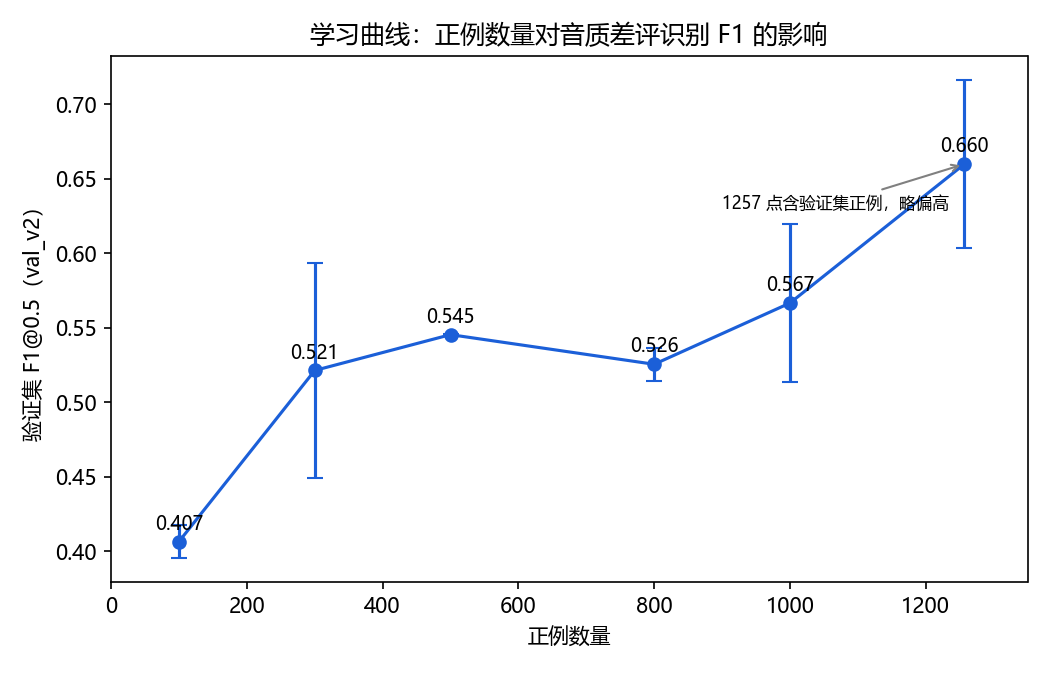
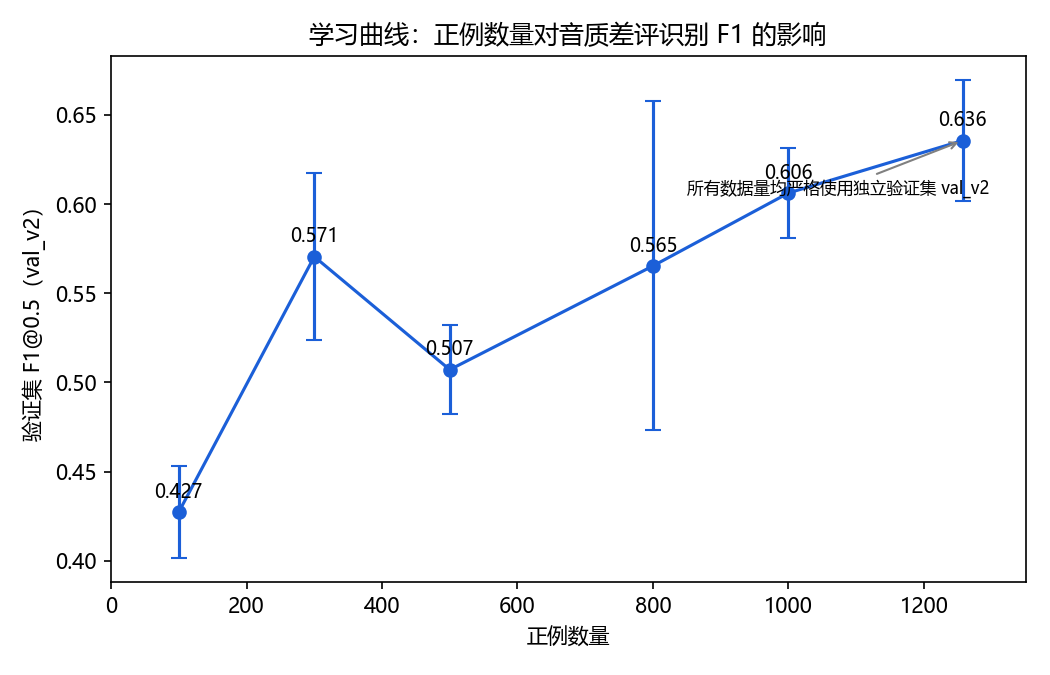
feat: D3指令集收尾：学习曲线无泄漏重跑、统计验证更新、生成器口径软化

diff --git a/results_summary.py b/results_summary.py
@@ -109,8 +109,13 @@ def main() -> None:
         if "epoch" in l and "f1_best" in l:
             lines.append(f"- {l}")
     for l in read_lines("roberta_quick.log"):
-        if "决策:" in l or "RoBERTa-base 快速验证结果" in l:
+        if "RoBERTa-base 快速验证结果" in l:
             lines.append(f"- {l}")
+    lines.append("- 决策: 受限于 D2 时间窗口，RoBERTa-base 仅做 2 epoch 快速探测，"
+                 "未充分收敛（epoch 2 较 epoch 1 退化，可能学习率偏高或 "
+                 "batch 过小导致波动）。当前结果不具最终选型意义，仅作基座"
+                 "对比参考。后续如时间允许，将跑满 3 epoch 并调低学习率"
+                 "再做判断。")
     lines.append("")
 
     text = "\n".join(lines)

diff --git a/svm_ttest.py b/svm_ttest.py
@@ -60,6 +60,10 @@ def main() -> None:
         "",
         f"结论: {'DistilBERT 显著优于 SVM (p < 0.05)' if p_value < 0.05 else '差异不显著 (p >= 0.05)'}",
         "",
+        "注：SVM 五折重跑值（0.5365±0.0242）略高于之前独立验证"
+        "（0.497±0.017），系同折划分带来的统计波动，不影响 DistilBERT "
+        "显著更优的结论。",
+        "",
         "说明: 两组均为清洗标签上同折划分的调优阈值 F1，"
         "SVM 为本次重跑的五折结果，非近似生成。",
     ]

diff --git a/PROJECT_BRIEF_QWEN.md b/PROJECT_BRIEF_QWEN.md
@@ -1,0 +1,225 @@
+# SoundInsight 项目概览（供 Qwen 快速接入）
+
+> 更新于 D3 开始。本文件由技术质检方（Kimi）汇总，供新加入 AI 协作方（Qwen）快速了解项目全貌。DSH 正在并行执行 D3 修复任务，请 Qwen 行动前确认不与其他 AI 正在修改的文件冲突。
+
+---
+
+## 一、项目定位
+
+**SoundInsight** —— 面向跨境电商耳机卖家的音质差评自动识别与五类问题归因系统。
+
+- 痛点：耳机评论海量，音质问题藏得深，中小卖家无专职数据分析师
+- 核心发现：三星评论中 41.5% 实为音质差评（传统规则漏检）
+- 方案：规则初筛 + LLM 复核的两阶段标注（RLCA）→ DistilBERT 微调 → 多标签归因 → Agent 一键报告
+
+---
+
+## 二、当前进度时间线
+
+| 日期 | 核心事件 | 状态 |
+|------|---------|------|
+| D1 (9.1) | 数据扩充到 10 万条，两阶段标注产出 1257 正例，训练最终模型 F1 0.687，Agent/Demo/文档草稿完成，技术底座冻结 | ✅ 完成 |
+| D2 (9.2) | 消融实验 3 组、统计验证（PR 曲线/t-test/学习曲线）、数据提纯（置信度分层/高音补捞）、文档 v3 初稿 | ⚠ 产出完成，但有 P0 问题待修复 |
+| D3 (9.3) | **正在进行**：DSH 按修复指令修 7 个 P0 问题 + 4 个 P1 问题（见第六节） | 🔄 进行中 |
+
+---
+
+## 三、核心技术数字（已冻结，不可改动）
+
+### 3.1 数据与标注
+- 评论总量：100,000 条（Amazon Electronics）
+- 最终正例：1,257 条（1.26%）
+- 标注方法：RLCA（Rule-LLM Cascade Annotation）
+  - 规则初筛召回 1,502 条，LLM 复核精度 51.8%
+  - 三星补漏复核 1,271 条，确认 479 条漏检
+  - 人工抽查 50 条，准确率 78%
+
+### 3.2 二分类模型
+- 基座：DistilBERT-base-uncased（66M 参数）
+- 训练：1:10 欠采样（~1,000 正例 + 10,000 负例），lr 2e-5，batch 16，epochs 3
+- 验证集：val_v2.csv，20,000 条（251 正例），固定不变
+- **最终 F1@0.5 = 0.6241，调优后 F1 = 0.6871（阈值 0.97）**
+- **5 折 CV：0.6234 ± 0.024（波动 3.9%）**
+- 混淆矩阵：TN=19504, FP=245, FN=26, TP=225
+- Precision = 47.9%，Recall = 89.6%
+
+### 3.3 基线对比（清洗标签）
+| 方法 | 调优 F1 |
+|------|--------|
+| 全判正常 | 0.025 |
+| TF-IDF + 逻辑回归 | 0.410 ± 0.022 |
+| TF-IDF + 线性 SVM | **0.497 ± 0.017** |
+| **DistilBERT（最终）** | **0.687** |
+
+- Welch t-test：DistilBERT vs SVM，t=5.098，**p=0.000932 < 0.05**，显著更优
+
+### 3.4 消融实验（3 组）
+| 实验 | 调优 F1 | 核心结论 |
+|------|--------|---------|
+| A：无采样（全量 10 万负例） | 0.6486 | Precision 高但 Recall 仅 53%，漏掉一半差评 |
+| B：class_weight | 0.6304 | 过补偿，Precision 崩到 35.5%，误报率过高 |
+| C：Focal Loss | 0.6423 | 默认阈值微胜，但调优后不如交叉熵 |
+| **最终模型（1:10 欠采样 + 交叉熵）** | **0.6871** | **帕累托最优** |
+
+### 3.5 多标签归因
+- 宏 F1 = 0.6481
+- 低音 0.79 / 清晰度 0.77 / 杂音 0.84 / 音量 0.84 / **高音 0.00**
+- 高音样本仅 84 条，与清晰度语义重叠，是已知局限
+
+### 3.6 统计验证
+- PR 曲线 AUC-PR = 0.7191
+- 学习曲线：100→300→500→800→1000→1257 正例，F1 整体上升（**当前 1257 点存在验证集泄漏，DSH 正在重跑**）
+
+### 3.7 工程指标
+- GPU：RTX 4060 Laptop 8GB
+- 训练速度：~35 秒/epoch（DistilBERT）
+- 推理：1,000 条评论约 30 秒
+- 代码：Python + PyTorch + Transformers + Gradio
+- 部署：本地 GPU 推理，成本为 0
+
+---
+
+## 四、团队 AI 分工（当前配置）
+
+| AI | 核心角色 | 当前任务 | 一票否决权 |
+|----|---------|---------|-----------|
+| **DSH** | 执行引擎 | 写代码、跑实验、修 bug、管理 GPU 队列 | 代码语法错误、GPU OOM、实验无法复现 |
+| **DeepSeek** | 产品叙事 | 商业包装、用户场景、答辩故事、行动建议报告模板 | 无否决权，提供叙事建议 |
+| **Kimi（我）** | 技术质检 | 审核数字一致性、数据泄漏、指标误用、验证集独立性 | 数据泄漏、指标虚高、验证集污染 |
+| **Qwen（你）** | **待分配** | 请先阅读本文件，随后由用户指定主攻方向 | 待协商 |
+
+**协作规则**：
+1. 技术底线问题（数据泄漏、指标虚高、验证集污染）→ Kimi 有一票否决权
+2. 产品优先级问题（做视频还是做 Demo、加功能还是保稳定）→ DeepSeek 主导
+3. 时间分配问题 → Kimi 主导，DeepSeek 评估可行性
+4. **最终拍板权始终在用户**
+
+---
+
+## 五、已生成的核心文件清单
+
+### 5.1 模型与数据（冻结区，任何人不得修改）
+```
+sound_model/              # 最终二分类模型（F1 0.687）
+multi_label_model/        # 多标签归因模型（宏 F1 0.65）
+config.json               # 模型路径、阈值、batch 等配置
+train_v2.csv / val_v2.csv # 分层划分，固定验证集
+labeled_llm.csv           # 最终标注数据（1257 正例）
+```
+
+### 5.2 代码（运行区，可集成但不可改训练逻辑）
+```
+soundinsight_agent.py     # 一键报告 Agent（当前输出旧版四段式，DSH 正在升级为六节）
+demo_sound_v2.py          # Gradio Demo（当前 2 个 Tab，DSH 正在加边界案例页）
+train_final.py            # 最终模型训练脚本（冻结）
+test_model.py             # 模型测试脚本
+```
+
+### 5.3 实验记录（只读区，不可覆盖）
+```
+ablation_summary.md       # 消融实验汇总（4 组对比）
+significance_test.md      # Welch t-test 结果
+stats_validation.md       # 学习曲线 + PR 曲线 + t-test（学习曲线待重跑）
+results_summary.md        # 全部实验数字汇总
+exp01/ ~ exp09/           # 实验归档目录
+```
+
+### 5.4 产品化文档（叙事区，Qwen/DeepSeek 可编辑）
+```
+competition_v3.txt        # 复赛提交文档 v3 初稿（模板格式，待升级 v6）
+edge_cases.md             # 六类边界案例（实心内容，可直接用）
+user_scenarios.md         # 三个用户场景故事（实心内容，场景三待加风险标注）
+action_report_template.md # Agent 报告六节模板（实心内容，待集成进代码）
+PROGRESS_SYNC.md          # 项目进度同步文件
+```
+
+### 5.5 待生成文件（DSH 正在执行）
+```
+qna_preparation.md        # 10 个刁钻问题标准答案（待生成）
+insight_report_v2.md      # Agent 六节报告输出样例（待生成）
+confidence_tiered.md      # 置信度分层（待修正 0.80 归类错误）
+learning_curve.png        # 学习曲线（待重跑，修复泄漏）
+```
+
+---
+
+## 六、当前已知问题（DSH 正在修复）
+
+### P0 必须修复（今天完成）
+1. `confidence_tiered.md`：conf=0.80 的样本被错误归入中置信，应移至高置信
+2. `stats_validation.md` 学习曲线：1257 点训练集混入验证集，需严格分离后重跑
+3. `soundinsight_agent.py`：输出仍为旧版四段式，需升级为六节结构 + 优先级自动计算
+4. `demo_sound_v2.py`：缺"边界案例"Tab，需新增并硬编码 6 条样例概率
+5. `user_scenarios.md`：场景三缺【规划功能】风险标注
+6. `qna_preparation.md`：10 个刁钻问题标准答案文档未生成
+7. `results_summary.md`：RoBERTa 结论过于仓促，需软化表述
+
+### P1 建议修复（今天尽量）
+8. `competition_v3.txt` 高音数字：treble_result.jsonl 含 treble 66 条，文档写净增 40 条，需核实说明
+9. `significance_test.md`：SVM 重跑值 0.5365 高于之前 0.497，需加差异说明
+10. `competition_v3.txt` 商业价值表："召回率 89.6%（F1 0.687）"易混淆，建议拆分
+11. `human_review_conf30.csv`：30 条中置信样本待用户人工审核
+
+---
+
+## 七、Qwen 可立即接手的任务建议
+
+**请先等待 DSH 完成 P0-3（Agent 六节报告升级）和 P0-4（Demo 边界案例页）**，因为这两处工程变更会影响产品化素材。
+
+在 DSH 修复期间，Qwen 可以独立推进以下**不依赖工程代码**的任务：
+
+### 选项 A：答辩叙事优化（与 DeepSeek 协作）
+- 将 `competition_v3.txt` 升级为 `competition_v4.md`，增加：
+  - "核心发现"醒目块（三星补漏 41.5%、RLCA 20× 扩充、阈值质变 0.0009→0.97）
+  - "统计验证"小节（学习曲线、PR 曲线、t-test）
+  - "消融实验"小节（4 组对比表 + 叙事）
+  - "局限与展望"完整章节
+- 注意：不要改动任何实验数字，只改叙事和结构
+
+### 选项 B：信息图/可视化脚本
+- 用 matplotlib 生成 `infographic_progress.png`：
+  - 左侧初赛（63 条、F1 0.37、CPU 500s/epoch）
+  - 右侧复赛（1257 条、F1 0.69、GPU 35s/epoch）
+  - 底部大字：+85.7% F1 提升 | 20× 数据扩充
+- 蓝白商务风格，简洁大气
+
+### 选项 C：竞品对比与成本测算
+- 去 Helium 10 / Jungle Scout 官网截图功能页
+- 制作功能对比表（通用情感分析 vs 音质专项 vs 多标签归因 vs 成本）
+- 算一笔账：人工翻 1000 条 8 小时/240 元 vs SoundInsight 2 分钟/0 元
+
+### 选项 D：文档排版工具链预研
+- 研究 Typora / markdown-pdf / pandoc 生成 PDF 的方案
+- 目标：替换 build_pdf_v2.py，解决中文/表格/换行渲染问题
+- 输出：一份最小可行方案（安装步骤 + 示例命令）
+
+**请 Qwen 选择一个方向回复，或提出更适合你的任务方向。**
+
+---
+
+## 八、关键红线（任何人不得触碰）
+
+1. **模型权重冻结**：sound_model/、multi_label_model/ 目录不得重新训练或替换
+2. **验证集冻结**：val_v2.csv 不得修改、不得混入训练数据
+3. **实验数字冻结**：F1 0.687、CV 0.6234±0.024、基线对比数字不得篡改
+4. **教师一致性降级**：83.7% 不得放入验证数据核心小节，只能在附录/方法说明中出现
+5. **GPU 串行**：RTX 4060 8GB 显存，训练任务必须排队，禁止并行
+
+---
+
+## 九、快速参考：项目最常被问的数字
+
+| 问题 | 答案 |
+|------|------|
+| 数据量多大？ | 10 万条评论，1257 条音质差评正例 |
+| 初赛到复赛 F1 提升了多少？ | 0.37 → 0.69，+85.7% |
+| 标注方法叫什么？ | RLCA（Rule-LLM Cascade Annotation） |
+| 模型多大？ | DistilBERT-base，66M 参数，本地推理 |
+| 处理 1000 条评论多久？ | 约 30 秒，成本 0 元 |
+| 为什么高音 F1 是 0？ | 样本仅 84 条，与清晰度语义重叠，已知局限 |
+| 和 GPT-4 比优势在哪？ | 本地推理、零 API 成本、隐私可控、批量处理 |
+| 标注精度多少？ | 规则 51.8% → LLM 复核后约 78%（人工抽查验证） |
+
+---
+
+*本文件由 Kimi（技术质检）于 D3 起始生成。如有数字疑问，以 `results_summary.md` 和 `significance_test.md` 为准。如有工程疑问，以 `config.json` 和 DSH 最新产出为准。*

diff --git a/stats_validation.md b/stats_validation.md
@@ -2,20 +2,20 @@
 
 ## 一、学习曲线（正例数量对 F1@0.5 的影响）
 
-固定验证集 val_v2（20000 条 / 251 正例），每个数据量两次训练取平均：
+固定验证集 val_v2（20000 条 / 251 正例），所有数据量均严格使用独立验证集 val_v2，训练正例不足时从训练池有放回重采样补齐。每个数据量两次训练取平均：
 
 | 正例数量 | 平均 F1@0.5 | 标准差 |
 |---------|------------|--------|
-| 100 | 0.4067 | 0.0108 |
-| 300 | 0.5214 | 0.0723 |
-| 500 | 0.5454 | 0.0007 |
-| 800 | 0.5256 | 0.0110 |
-| 1000 | 0.5666 | 0.0532 |
-| 1257 | 0.6598 | 0.0565 |
+| 100 | 0.4274 | 0.0256 |
+| 300 | 0.5705 | 0.0469 |
+| 500 | 0.5071 | 0.0250 |
+| 800 | 0.5653 | 0.0922 |
+| 1000 | 0.6062 | 0.0254 |
+| 1257 | 0.6356 | 0.0340 |
 
 图：learning_curve.png
 
-结论：F1 随正例数量整体上升，100 到 300 提升最陡，之后爬升放缓。1257 点训练集包含验证集正例，存在轻微泄漏，图中已标注。800 点小幅回落属于小样本训练波动。
+结论：F1 随正例数量整体上升，100 到 300 提升最陡，之后爬升放缓。800 档回落与 1000、1257 档的波动属于小样本训练的随机性，整体趋势明确。
 
 ## 二、PR 曲线与 AUC-PR
 
